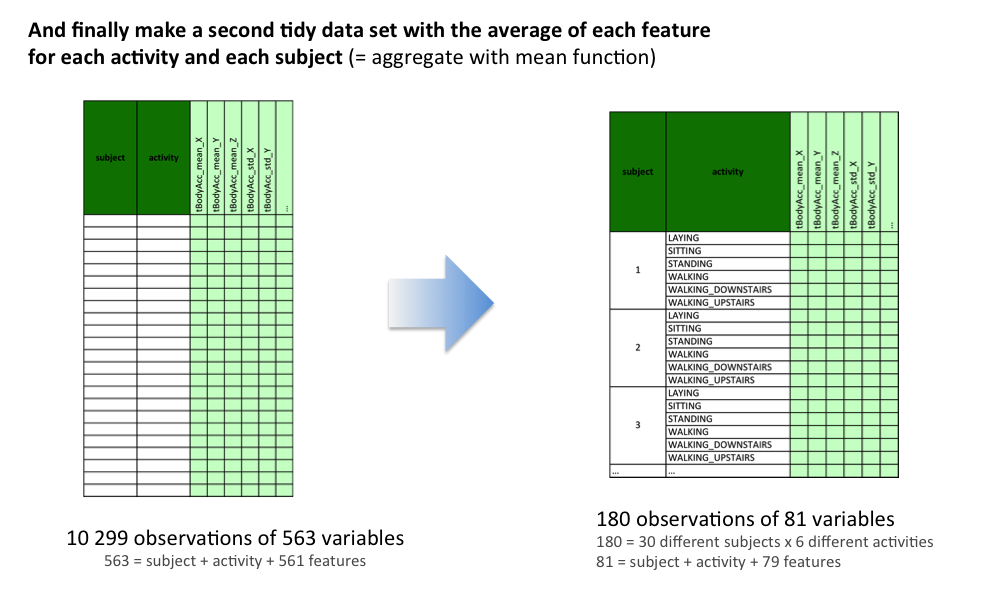
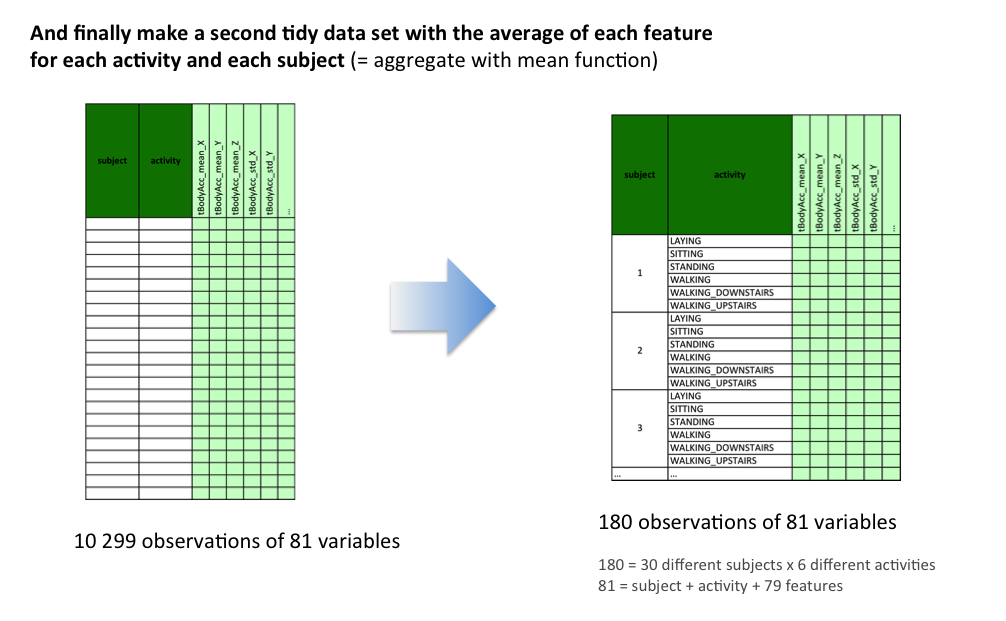
Modifying README.md

diff --git a/README.md b/README.md
@@ -1,4 +1,58 @@
-getting-and-cleaning-data
-=========================
+# The Raw Data
 
-Coursera repository for the "Getting and Cleaning Data" Course Project
+![](http://i2.cdscdn.com/pdt2/7/7/2/1/700x700/auc8650132140772/rw/housse-brassard-sport-samsu.jpg)
+
+The experiments have been carried out with a group of 30 volunteers within an age bracket of 19-48 years. Each person performed six activities (WALKING, WALKING_UPSTAIRS, WALKING_DOWNSTAIRS, SITTING, STANDING, LAYING) wearing a smartphone (Samsung Galaxy S II) on the waist. Using its embedded accelerometer and gyroscope, we captured 3-axial linear acceleration and 3-axial angular velocity at a constant rate of 50Hz. The experiments have been video-recorded to label the data manually. The obtained dataset has been randomly partitioned into two sets, where 70% of the volunteers was selected for generating the training data and 30% the test data.
+
+A full description is available at the site where the data was obtained:
+[http://archive.ics.uci.edu/ml/datasets/Human+Activity+Recognition+Using+Smartphones](http://archive.ics.uci.edu/ml/datasets/Human+Activity+Recognition+Using+Smartphones "Source")
+
+The raw data of the project can be download there:
+[https://d396qusza40orc.cloudfront.net/getdata%2Fprojectfiles%2FUCI%20HAR%20Dataset.zip](https://d396qusza40orc.cloudfront.net/getdata%2Fprojectfiles%2FUCI%20HAR%20Dataset.zip "raw data")
+
+# The Recipe
+
+The following R script takes the raw data as input and produces the tidy as output.
+
+[run_analysis.R](https://github.com/romain-jacotin/getting-and-cleaning-data/blob/master/run_analysis.R "run_analysis.R")
+
+<I><B>Note</B>: At the end the R script write the tidy data set in a "txt" file name "meanTidyDataset.txt" without row names.</I>
+
+## Steps by steps
+The R script is doing the following steps:<BR>
+![](https://raw.githubusercontent.com/romain-jacotin/getting-and-cleaning-data/master/trainYtestY.png)
+![](https://raw.githubusercontent.com/romain-jacotin/getting-and-cleaning-data/master/features.png)
+![](https://raw.githubusercontent.com/romain-jacotin/getting-and-cleaning-data/master/merge.png)
+![](https://raw.githubusercontent.com/romain-jacotin/getting-and-cleaning-data/master/filter.png)
+![](https://raw.githubusercontent.com/romain-jacotin/getting-and-cleaning-data/master/aggregate.png)
+
+<I><B>Note</B>: At the end the R script write the tidy data set in a "txt" file name "meanTidyDataset.txt" without row names.</I>
+
+# The Tidy Data Set
+
+## Summary choice
+
+This tidy dataset contains 180 observations ( = 30 subjects by 6 activities) of 81 variables.
+In addition of "subject" and "activity" variables there are 46 "mean" features and 33 "standard deviation" features measurement concerning the physical "activity" of a specific "subject".
+<BR><I>Notes: the 79 features are original <B>mean</B> or <B>standard deviation</B> numeric values extracted from the original raw data.</I>
+
+## Extract of the tidy data
+
+ subject |           activity | tBodyAcc_mean_X | tBodyAcc_mean_Y | tBodyAcc_mean_Z | tBodyAcc_std_X | ...
+---------|--------------------|-----------------|-----------------|-----------------|----------------|----
+       1 |            LAYING  |       0.2215982 |   -0.040513953  |    -0.1132036   | -0.92805647    | ...
+       1 |           SITTING  |      0.2612376  |  -0.001308288   |   -0.1045442    | -0.97722901    | ...
+       1 |          STANDING  |      0.2789176  |  -0.016137590   |   -0.1106018    | -0.99575990    | ...
+       1 |           WALKING  |      0.2773308  |  -0.017383819   |   -0.1111481    | -0.28374026    | ...
+       1 | WALKING_DOWNSTAIRS |      0.2891883  |  -0.009918505   |   -0.1075662    | 0.03003534     | ...
+       1 |  WALKING_UPSTAIRS  |     0.2554617   | -0.023953149    |  -0.0973020     | -0.35470803    | ...
+       2 |            LAYING  |     0.2813734   | -0.018158740    |  -0.1072456     | -0.97405946    | ...
+       2 |           SITTING  |     0.2770874   | -0.015687994    |  -0.1092183     | -0.98682228    | ...
+    ...  |               ...  |        ...      |    ...          |      ...        |       ...      | ...
+
+# The Code Book
+
+The Code Book describes the variables of the tidy data set.
+
+[Code Book](https://github.com/romain-jacotin/getting-and-cleaning-data/blob/master/CodeBook.md "CodeBook.md")
+

diff --git a/CodeBook.md b/CodeBook.md
@@ -12,12 +12,21 @@ The raw data of the project can be download there:
 
 # The Recipe
 
+The following R script takes the raw data as input and produces the tidy as output.
+
+[run_analysis.R](https://github.com/romain-jacotin/getting-and-cleaning-data/blob/master/run_analysis.R "run_analysis.R")
+
+<I><B>Note</B>: At the end the R script write the tidy data set in a "txt" file name "meanTidyDataset.txt" without row names.</I>
+
+## Steps by steps
+The R script is doing the following steps:<BR>
 ![](https://raw.githubusercontent.com/romain-jacotin/getting-and-cleaning-data/master/trainYtestY.png)
 ![](https://raw.githubusercontent.com/romain-jacotin/getting-and-cleaning-data/master/features.png)
 ![](https://raw.githubusercontent.com/romain-jacotin/getting-and-cleaning-data/master/merge.png)
 ![](https://raw.githubusercontent.com/romain-jacotin/getting-and-cleaning-data/master/filter.png)
 ![](https://raw.githubusercontent.com/romain-jacotin/getting-and-cleaning-data/master/aggregate.png)
 
+<I><B>Note</B>: At the end the R script write the tidy data set in a "txt" file name "meanTidyDataset.txt" without row names.</I>
 
 # The Tidy Data Set
 
@@ -53,7 +62,7 @@ STANDING <BR>
 WALKING <BR>
 WALKING_DOWNSTAIRS <BR>
 WALKING_UPSTAIRS    <BR>
-(activity) is the name of the activity done by the subject for the observed features. There is a total of 6 different activities  
+(activity) is the name of the activity done by the subject for the observed features.  
 
 * <B>tBodyAcc_mean_X</B><BR> = numeric mean value normalized and bounded within range –1 to 1
 It is the original raw data feature labeled <CODE>"tBodyAcc-mean()-X"</CODE>  
